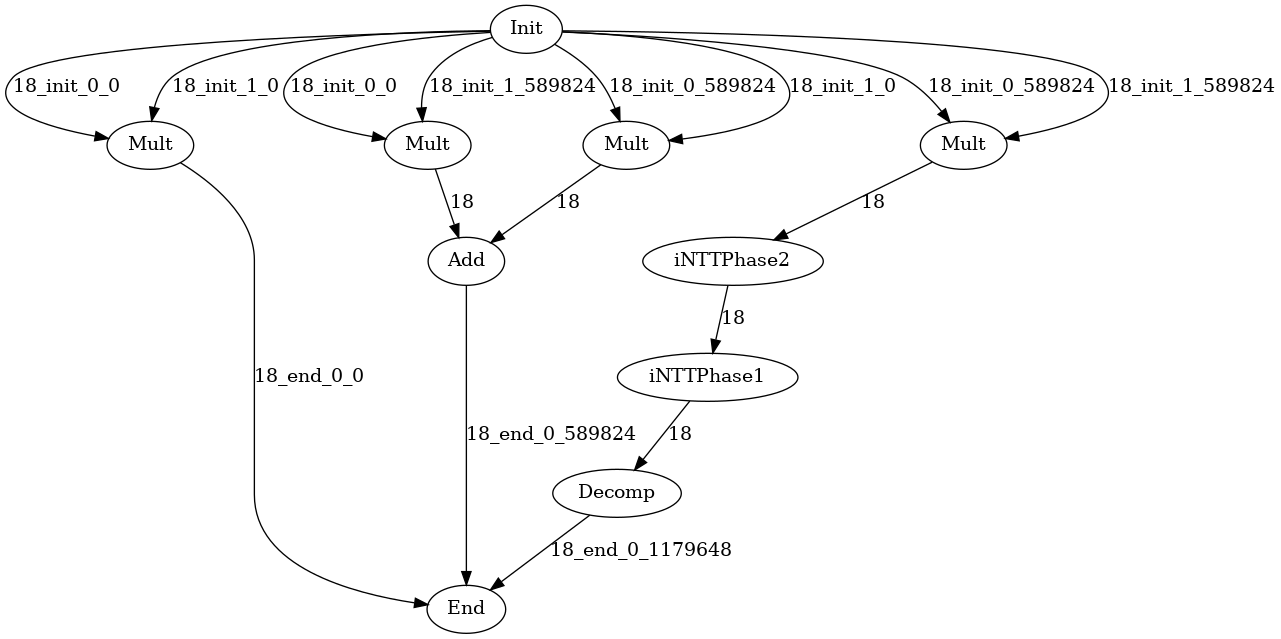
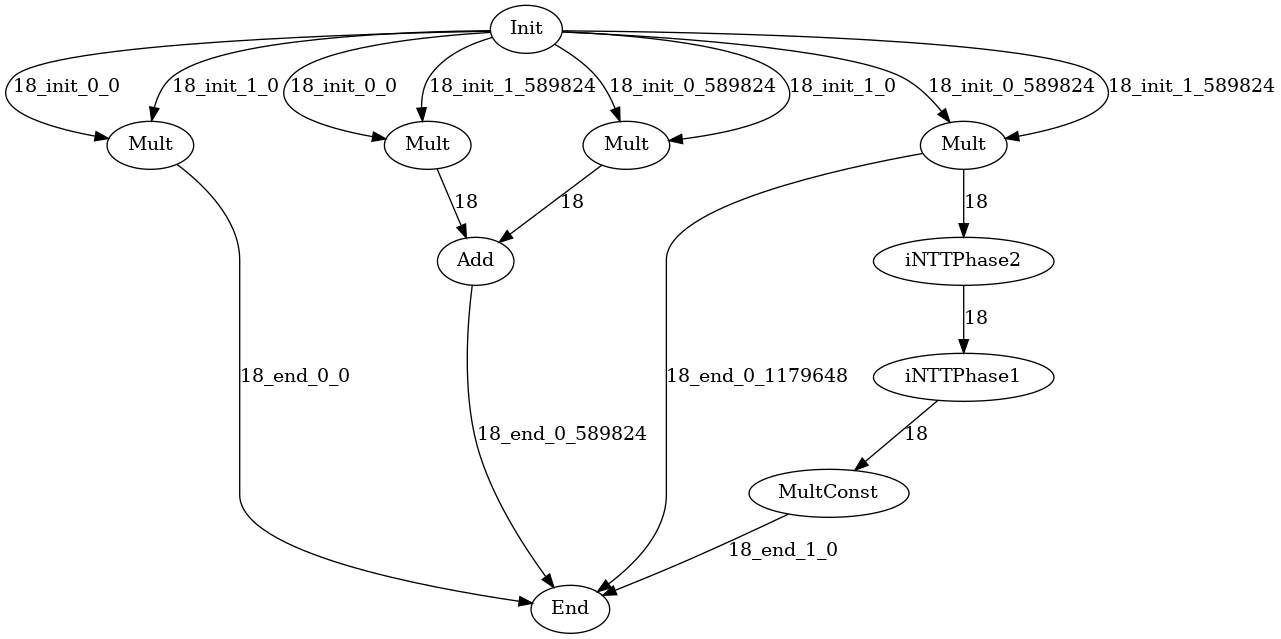
Prepare Bconv (#75)
* Decomp to MultConst

* test modup result

* multiple output in ElemLimb2

diff --git a/polyfhe/engine/codegen/cuda_codegen.cpp b/polyfhe/engine/codegen/cuda_codegen.cpp
@@ -107,15 +107,17 @@ std::string gen_ElemWiseOp_internal(polyfhe::core::OpType op_type,
 
 void CudaCodegen::generate_ElemWiseOp(
     std::shared_ptr<polyfhe::core::Node>& node, CodeWriter& w,
-    std::shared_ptr<polyfhe::core::Edge> out,
+    std::vector<std::shared_ptr<polyfhe::core::Edge>> out_vec,
     std::shared_ptr<polyfhe::core::Edge> in0,
     std::shared_ptr<polyfhe::core::Edge> in1,
     polyfhe::core::SubgraphType s_type) {
     auto op_type = node->get_op_type();
 
     if (s_type == polyfhe::core::SubgraphType::ElemLimb1) {
+        // TODO: support multiple output
+        assert(out_vec.size() == 1);
         std::vector<std::string> args;
-        for (auto edge : {out, in0, in1}) {
+        for (auto edge : {out_vec[0], in0, in1}) {
             args.push_back(gen_edge_access(
                 edge, "batch_idx * params->N + n_idx",
                 std::to_string(edge->get_offset_smem()) + " + threadIdx.x"));
@@ -123,7 +125,7 @@ void CudaCodegen::generate_ElemWiseOp(
         w << gen_ElemWiseOp_internal(op_type, args[0], args[1], args[2]);
 
         args.clear();
-        for (auto edge : {out, in0, in1}) {
+        for (auto edge : {out_vec[0], in0, in1}) {
             args.push_back(gen_edge_access(
                 edge, "batch_idx * params->N + n_idx + blockDim.x",
                 std::to_string(edge->get_offset_smem()) + " + threadIdx.x + "
@@ -136,19 +138,29 @@ void CudaCodegen::generate_ElemWiseOp(
         w << "#pragma unroll\n";
         w << "for (int l = 0; l < 8; l++)";
         w.block_begin();
-        std::vector<std::string> args;
-        for (auto edge : {out, in0, in1}) {
+        w << "uint64_t res;\n";
+
+        std::vector<std::string> in_strs;
+        for (auto in : {in0, in1}) {
             // TODO: use Register in data_reuse_pass.cpp
-            if (edge->get_level() == polyfhe::core::EdgeLevel::Shared) {
-                edge->set_level(polyfhe::core::EdgeLevel::Register);
+            if (in->get_level() == polyfhe::core::EdgeLevel::Shared) {
+                in->set_level(polyfhe::core::EdgeLevel::Register);
             }
-            args.push_back(gen_edge_access(edge, "idx + l", "l"));
+            in_strs.push_back(gen_edge_access(in, "idx + l", "l"));
         }
-        w << gen_ElemWiseOp_internal(op_type, args[0], args[1], args[2]);
+        w << gen_ElemWiseOp_internal(op_type, "res", in_strs[0], in_strs[1]);
+        for (auto out : out_vec) {
+            // TODO: use Register in data_reuse_pass.cpp
+            if (out->get_level() == polyfhe::core::EdgeLevel::Shared) {
+                out->set_level(polyfhe::core::EdgeLevel::Register);
+            }
+            w << gen_edge_access(out, "idx + l", "l") << " = res;\n";
+        }
         w.block_end();
     } else if (s_type == polyfhe::core::SubgraphType::ElemLimb2Slot) {
+        assert(out_vec.size() == 1);
         std::vector<std::string> args;
-        for (auto edge : {out, in0, in1}) {
+        for (auto edge : {out_vec[0], in0, in1}) {
             args.push_back(gen_edge_access(
                 edge,
                 "batch_idx * params->N + blockIdx.x + thread_idx * params->n1",
@@ -158,7 +170,7 @@ void CudaCodegen::generate_ElemWiseOp(
         w << gen_ElemWiseOp_internal(op_type, args[0], args[1], args[2]);
 
         args.clear();
-        for (auto edge : {out, in0, in1}) {
+        for (auto edge : {out_vec[0], in0, in1}) {
             args.push_back(gen_edge_access(
                 edge,
                 "batch_idx * params->N + blockIdx.x + (thread_idx + "
@@ -361,7 +373,7 @@ void CudaCodegen::generate_kernel_defs(
                 }
             }
             // Pre-computed constants
-            if (node->get_op_type() == core::OpType::Decomp) {
+            if (node->get_op_type() == core::OpType::MultConst) {
                 w << ", uint64_t *partQlHatInv_mod_Ql_concat";
                 w << ", uint64_t *partQlHatInv_mod_Ql_concat_shoup";
             }
@@ -477,7 +489,7 @@ void CudaCodegen::generate_kernel_defs(
                                 " + threadIdx.x");
                         w << " = res;\n";
                     }
-                } else if (op_type == core::OpType::Decomp) {
+                } else if (op_type == core::OpType::MultConst) {
                     assert(node->get_in_edges().size() == 1);
                     assert(node->get_out_edges().size() == 1);
                     assert(node->get_out_edges()[0]->get_level() ==
@@ -499,7 +511,7 @@ void CudaCodegen::generate_kernel_defs(
                     w << " = res;\n";
                 } else {
                     LOG_ERROR(
-                        "Only Add, Sub, Mult, Decomp and Copy are "
+                        "Only Add, Sub, Mult, MultConst and Copy are "
                         "supported "
                         "for SubgraphType::Elem\n");
                     std::cerr << "op_type: " << core::toStringOpType(op_type)
@@ -544,7 +556,7 @@ void CudaCodegen::generate_kernel_defs(
                     assert(node->get_in_edges().size() == 2);
                     LOG_ERROR("Not implemented\n");
                     assert(false);
-                } else if (op_type == core::OpType::Decomp) {
+                } else if (op_type == core::OpType::MultConst) {
                     w << "#pragma unroll\n";
                     w << "for (int l = 0; l < 8; l++)";
                     w.block_begin();
@@ -615,9 +627,8 @@ void CudaCodegen::generate_kernel_defs(
                 if (op_type == core::OpType::Add ||
                     op_type == core::OpType::Sub ||
                     op_type == core::OpType::Mult) {
-                    assert(node->get_out_edges().size() == 1);
                     assert(node->get_in_edges().size() == 2);
-                    generate_ElemWiseOp(node, w, node->get_out_edges()[0],
+                    generate_ElemWiseOp(node, w, node->get_out_edges(),
                                         node->get_in_edges()[0],
                                         node->get_in_edges()[1], s_type);
                 } else if (op_type == core::OpType::NTTPhase2) {
@@ -722,7 +733,7 @@ void CudaCodegen::generate_kernel_defs(
                     w.block_begin();
                     w << "const uint64_t q = "
                          "params->ntt_params->q[batch_idx];\n";
-                    generate_ElemWiseOp(node, w, node->get_out_edges()[0],
+                    generate_ElemWiseOp(node, w, node->get_out_edges(),
                                         node->get_in_edges()[0],
                                         node->get_in_edges()[1], s_type);
                     w.block_end();
@@ -820,7 +831,7 @@ void CudaCodegen::generate_call_kernels(
             }
 
             // Pre-computed constants
-            if (node->get_op_type() == core::OpType::Decomp) {
+            if (node->get_op_type() == core::OpType::MultConst) {
                 w << ", rns_tool.partQlHatInv_mod_Ql_concat()";
                 w << ", rns_tool.partQlHatInv_mod_Ql_concat_shoup()";
             }
@@ -871,7 +882,7 @@ void CudaCodegen::generate_entry(std::shared_ptr<polyfhe::core::Graph>& graph,
          "&context, "
          "uint64_t *in0, "
          "uint64_t *in1, "
-         "uint64_t *out0, bool if_benchmark)";
+         "uint64_t *out0, uint64_t *out1, bool if_benchmark)";
     w.block_begin();
 
     // w << "const long N = params_h->N;\n";

diff --git a/pypolyfhe/polyfhe.py b/pypolyfhe/polyfhe.py
@@ -10,6 +10,7 @@ class PolyOpType(Enum):
     Add = auto()
     Sub = auto()
     Mult = auto()
+    MultConst = auto()
     Decomp = auto()
     BConv = auto()
     ModDown = auto()
@@ -87,9 +88,16 @@ class PolyFHE:
     def mul(self, a: PolyOp, b: PolyOp, name: str, current_limb: int, start_limb: int, end_limb: int):
         return PolyOp(PolyOpType.Mult, [a, b], name, current_limb, start_limb, end_limb)
     
+    def mul_const(self, a: PolyOp, name: str, current_limb: int, start_limb: int, end_limb: int):
+        return PolyOp(PolyOpType.MultConst, [a], name, current_limb, start_limb, end_limb)
+    
     def decomp(self, a: PolyOp, name: str, current_limb: int, start_limb: int, end_limb: int, alpha: int, beta: int):
         op = PolyOp(PolyOpType.Decomp, [a], name, current_limb, start_limb, end_limb)
         op.set_decomp_info(alpha, beta)
+        return op
+    
+    def bconv(self, a: PolyOp, name: str, in_idx_start: int, in_idx_size: int, out_idx_start: int, out_idx_size: int):
+        op = PolyOp(PolyOpType.BConv, [a], name, 0, 0, 0)
         return op
     
     def intt_phase1(self, a: PolyOp, name: str, current_limb: int, start_limb: int, end_limb: int):
@@ -126,15 +134,6 @@ class PolyFHE:
             elif dst.op_type == PolyOpType.EndEdge:
                 label = f"{src.end_limb}_end_{dst.idx_ct}_{dst.offset}"
             else:
-                if src.current_limb != dst.current_limb:
-                    print(f"error: current limb mismatch {src.current_limb} != {dst.current_limb}")
-                    exit(1)
-                if src.start_limb != dst.start_limb:
-                    print(f"error: start limb mismatch {src.start_limb} != {dst.start_limb}")
-                    exit(1)
-                if src.end_limb != dst.end_limb:
-                    print(f"error: end limb mismatch {src.end_limb} != {dst.end_limb}")
-                    exit(1)
                 label = f"{src.end_limb}"
             return label
 

diff --git a/example/ckks_HMult/example.py b/example/ckks_HMult/example.py
@@ -5,6 +5,8 @@ pf = PolyFHE()
 prm = Params(N=2 ** 15, L=18, dnum=9)
 print(prm)
 
+target = []
+
 # HMult
 e_ct0_ax = pf.init(0, 0, "ct0_ax")
 e_ct0_bx = pf.init(0, prm.N * prm.L, "ct0_bx")
@@ -17,12 +19,26 @@ add_axbx = pf.add(mult_axbx, mult_bxax, "AddAxBx", prm.L, 0, prm.L)
 mult_bxbx = pf.mul(e_ct0_bx, e_ct1_bx, "MultBxBx", prm.L, 0, prm.L)
 inttp2 = pf.intt_phase2(mult_bxbx, "iNTTP2", prm.L, 0, prm.L)
 inttp1 = pf.intt_phase1(inttp2, "iNTT1", prm.L, 0, prm.L)
-decomp = pf.decomp(inttp1, "Decomp", prm.L, 0, prm.L, prm.alpha, prm.get_beta(prm.L - 1))
+scale_for_bconv = pf.mul_const(inttp1, "ScaleForBConv", prm.L, 0, prm.L)
+# scale_for_bconv = pf.decomp(inttp1, "ScaleForBConv", prm.L, 0, prm.L, prm.alpha, prm.get_beta(prm.L - 1))
+"""
+for beta_idx in range(prm.get_beta(prm.L - 1)):
+    bconv = pf.bconv(scale_for_bconv, f"BConv{beta_idx}", beta_idx * prm.alpha, (beta_idx + 1) * prm.alpha, 0, prm.K + prm.L)
+    res = pf.end(bconv, 0, prm.N * prm.L * 2)
+    target.append(res)
+"""
 res_axax = pf.end(mult_axax, 0, 0)
 res_axbx = pf.end(add_axbx, 0, prm.N * prm.L)
-res_bxbx = pf.end(decomp, 0, prm.N * prm.L * 2)
+res_bxbx = pf.end(mult_bxbx, 0, prm.N * prm.L * 2)
+res_intt = pf.end(scale_for_bconv, 1, 0)
+target.append(res_axax)
+target.append(res_axbx)
+target.append(res_bxbx)
+target.append(res_intt)
 
 # Compile
 current_dir = os.path.dirname(os.path.abspath(__file__))
 filepath = os.path.join(current_dir, "output")
-pf.compile([res_axax, res_axbx, res_bxbx], filepath)
+pf.compile(target, filepath)
+
+print("target:", target)

diff --git a/polyfhe/core/graph/node.cpp b/polyfhe/core/graph/node.cpp
@@ -21,6 +21,8 @@ std::string toStringOpType(OpType op_type) {
         return "Sub";
     case OpType::Mult:
         return "Mult";
+    case OpType::MultConst:
+        return "MultConst";
     case OpType::Decomp:
         return "Decomp";
     case OpType::BConv:
@@ -70,7 +72,7 @@ MemoryAccessPattern OpType_access_pattern(OpType op_type) {
                op_type == OpType::ModUp) {
         return MemoryAccessPattern::SlotWise;
     } else if (op_type == OpType::Add || op_type == OpType::Sub ||
-               op_type == OpType::Mult || op_type == OpType::Decomp) {
+               op_type == OpType::Mult || op_type == OpType::MultConst) {
         return MemoryAccessPattern::ElementWise;
     } else if (op_type == OpType::End || op_type == OpType::Init) {
         return MemoryAccessPattern::NoAccess;
@@ -88,6 +90,7 @@ Node::Node(std::string op_name) : m_id(-1) {
         {"Add", OpType::Add},
         {"Sub", OpType::Sub},
         {"Mult", OpType::Mult},
+        {"MultConst", OpType::MultConst},
         {"Decomp", OpType::Decomp},
         {"BConv", OpType::BConv},
         {"ModDown", OpType::ModDown},

diff --git a/polyfhe/engine/codegen/cuda_codegen.hpp b/polyfhe/engine/codegen/cuda_codegen.hpp
@@ -21,12 +21,12 @@ public:
     void generate_call_kernels(std::shared_ptr<polyfhe::core::Graph>& graph,
                                CodeWriter& w);
 
-    void generate_ElemWiseOp(std::shared_ptr<polyfhe::core::Node>& node,
-                             CodeWriter& w,
-                             std::shared_ptr<polyfhe::core::Edge> out,
-                             std::shared_ptr<polyfhe::core::Edge> in0,
-                             std::shared_ptr<polyfhe::core::Edge> in1,
-                             polyfhe::core::SubgraphType s_type);
+    void generate_ElemWiseOp(
+        std::shared_ptr<polyfhe::core::Node>& node, CodeWriter& w,
+        std::vector<std::shared_ptr<polyfhe::core::Edge>> out_vec,
+        std::shared_ptr<polyfhe::core::Edge> in0,
+        std::shared_ptr<polyfhe::core::Edge> in1,
+        polyfhe::core::SubgraphType s_type);
     void generate_NTT(std::shared_ptr<polyfhe::core::Node>& node, CodeWriter& w,
                       bool if_ntt, bool if_phase1, bool has_defined);
     void generate_NTT_ElemLimb(std::shared_ptr<polyfhe::core::Node>& node,

diff --git a/polyfhe/core/graph/node.hpp b/polyfhe/core/graph/node.hpp
@@ -52,6 +52,7 @@ enum class OpType {
     Add,
     Sub,
     Mult,
+    MultConst,
     Decomp,
     BConv,
     ModDown,
